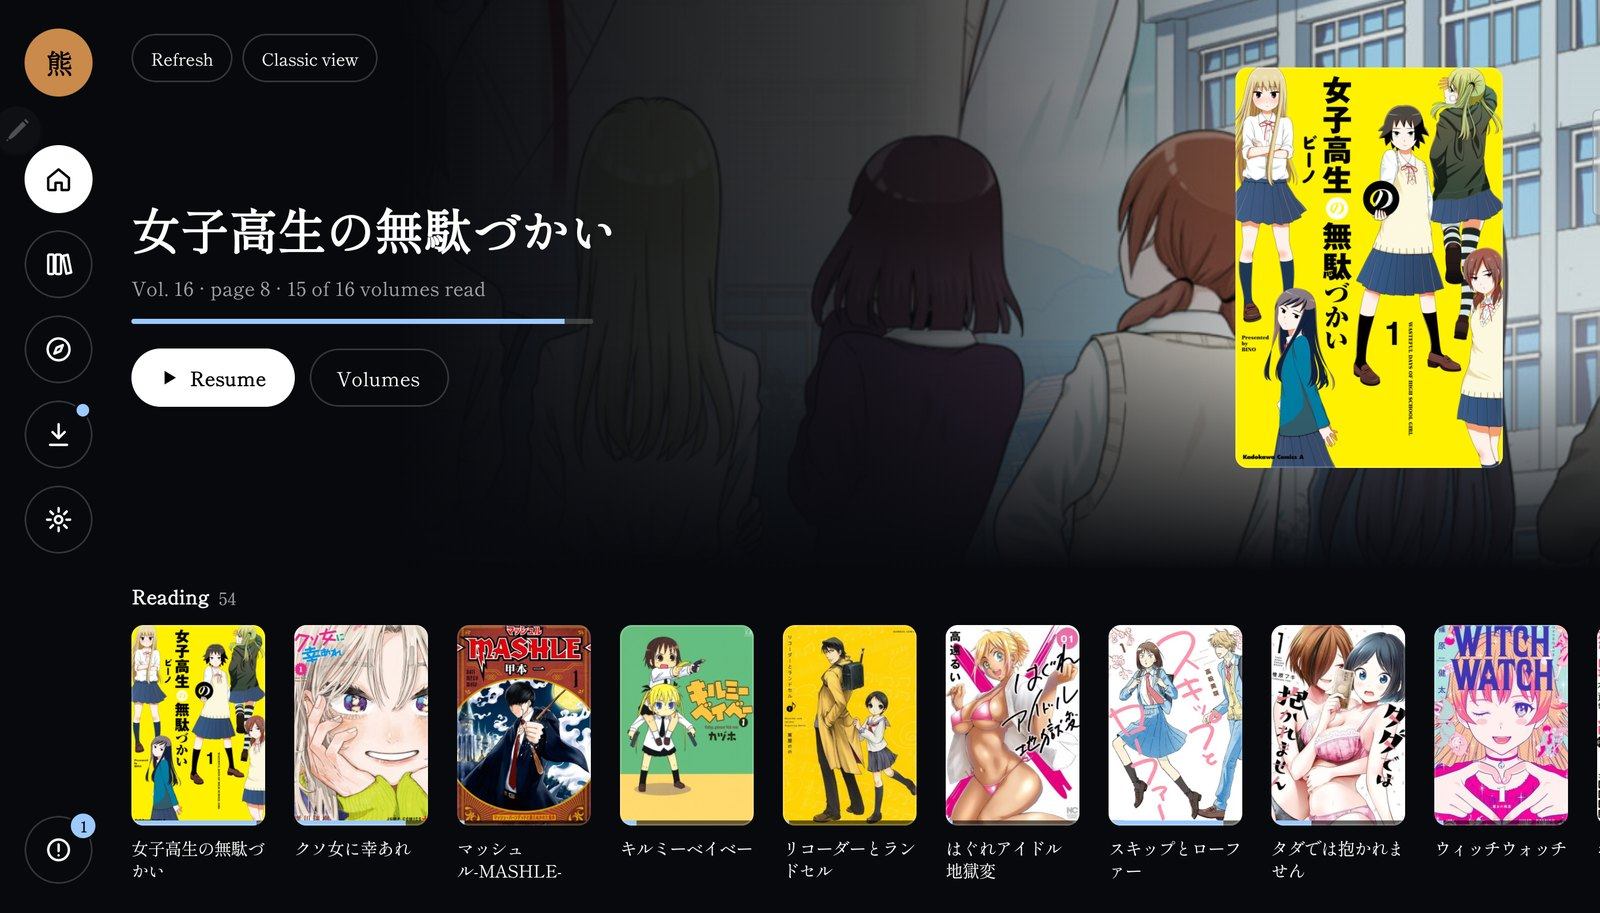
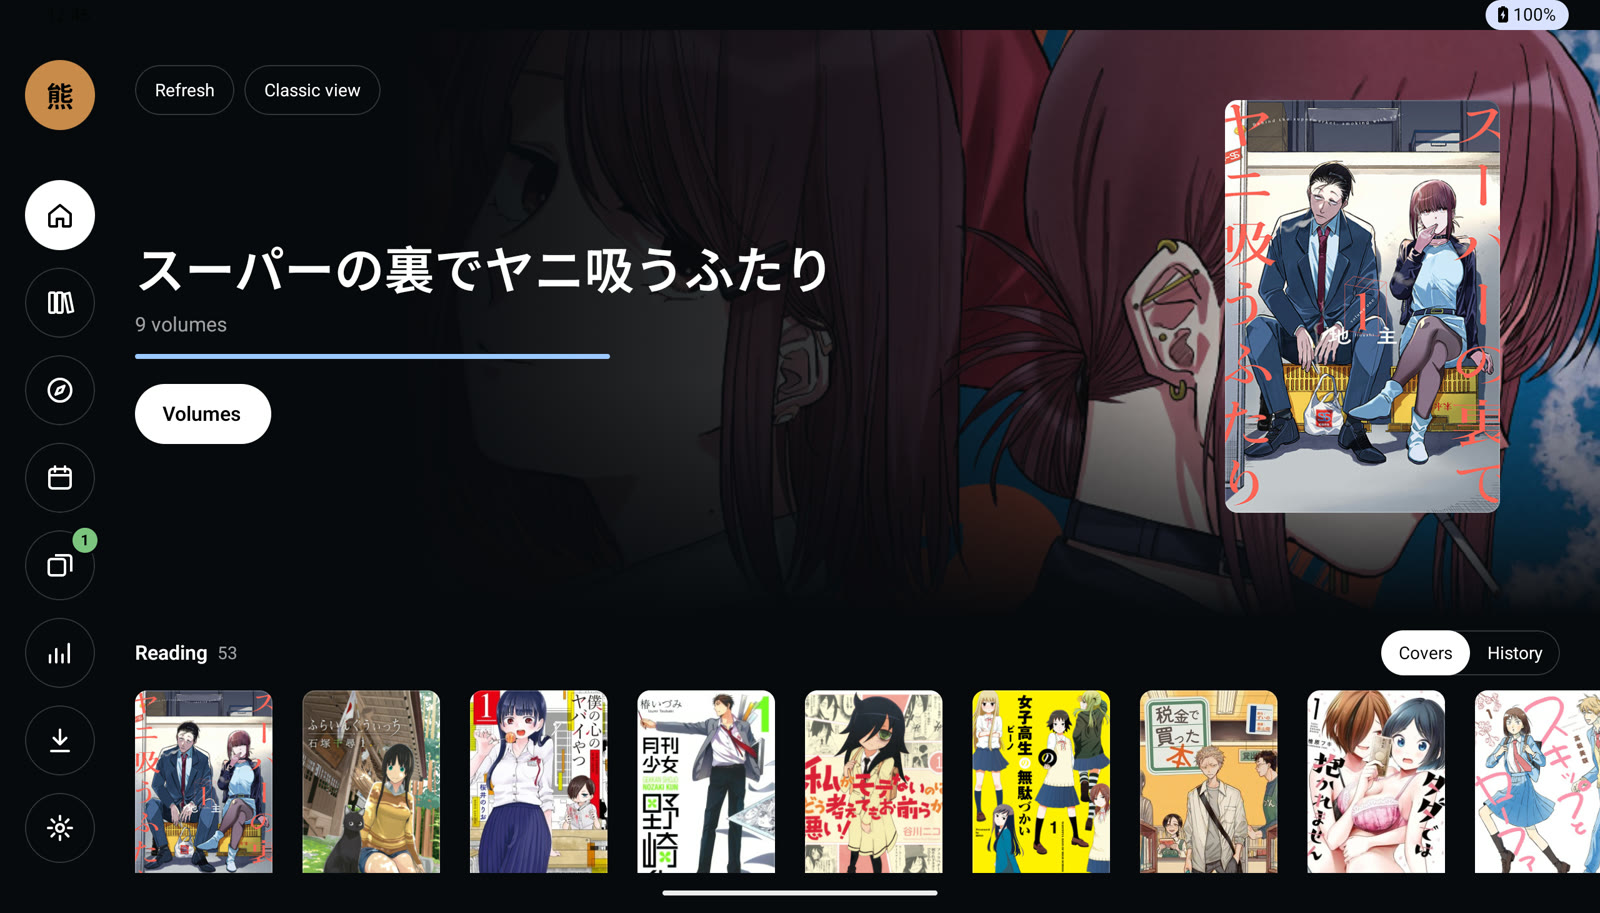
README: new Home, Library and title screenshots; Reader, statistics and backup section

diff --git a/README.md b/README.md
@@ -35,6 +35,7 @@ The new screens are made for tablets, and phones get their own narrow version (S
 - **Home** is your AniList *Reading* and *Plan to read* lists, with "Continue reading" on top.
 - **Library** is the whole list. Filter by list, genre, tag or length, or by what is on the tablet. Each cover shows how many volumes you have.
 - Progress goes back to AniList by volume as you finish them.
+- A **Covers | History** switch on Home shows what you read last, with Resume on each row. Series you are caught up on go to the end of *Reading*.
 
 ## 🧭 Discover
 
@@ -77,6 +78,17 @@ Three ways to find what to read next, based on what you finished:
 - Dates come from the Japanese publishers' catalogue ([books.or.jp](https://www.books.or.jp)), the National Diet Library and Kodansha's calendar; the sources' coverage says when a volume can be fetched. It checks every day around 09:00 on Wi-Fi, or when you tap *Check now*.
 - **Notifications**: *out today*, *on &lt;source&gt;* with a Fetch button, and date changes (quietly).
 - **Auto-fetch** (per title, on by default when you are up to date): the next volume is fetched by itself on Wi-Fi, with more than 5 GB free, at most 3 a day. After 3 failed tries it goes to *Needs attention*.
+
+## 📖 Reader, statistics and backup
+
+<p align="center">
+  <img src="./.github/readme-images/glass/reader.jpg" alt="Reader: the top bar with volume, page layout and OCR, and the page bar at the bottom" width="49%" />
+  <img src="./.github/readme-images/glass/settings-backup.jpg" alt="Settings: backup and restore at the top of Library and storage" width="49%" />
+</p>
+
+- **Reader**: a top bar (volume, single / double pages, OCR, page bookmark) and a slim page bar that says where you are. Settings, statistics, volumes and the long-press menu open in a side panel.
+- **Stats** on the tablet rail: reading time, characters read, speed, streak and cards mined, by day, week, month, year or all time.
+- **Backup** in Settings › Library and storage: back up now, restore, how often and where.
 
 ## 📱 Phones, torrents and downloads by hand
 
